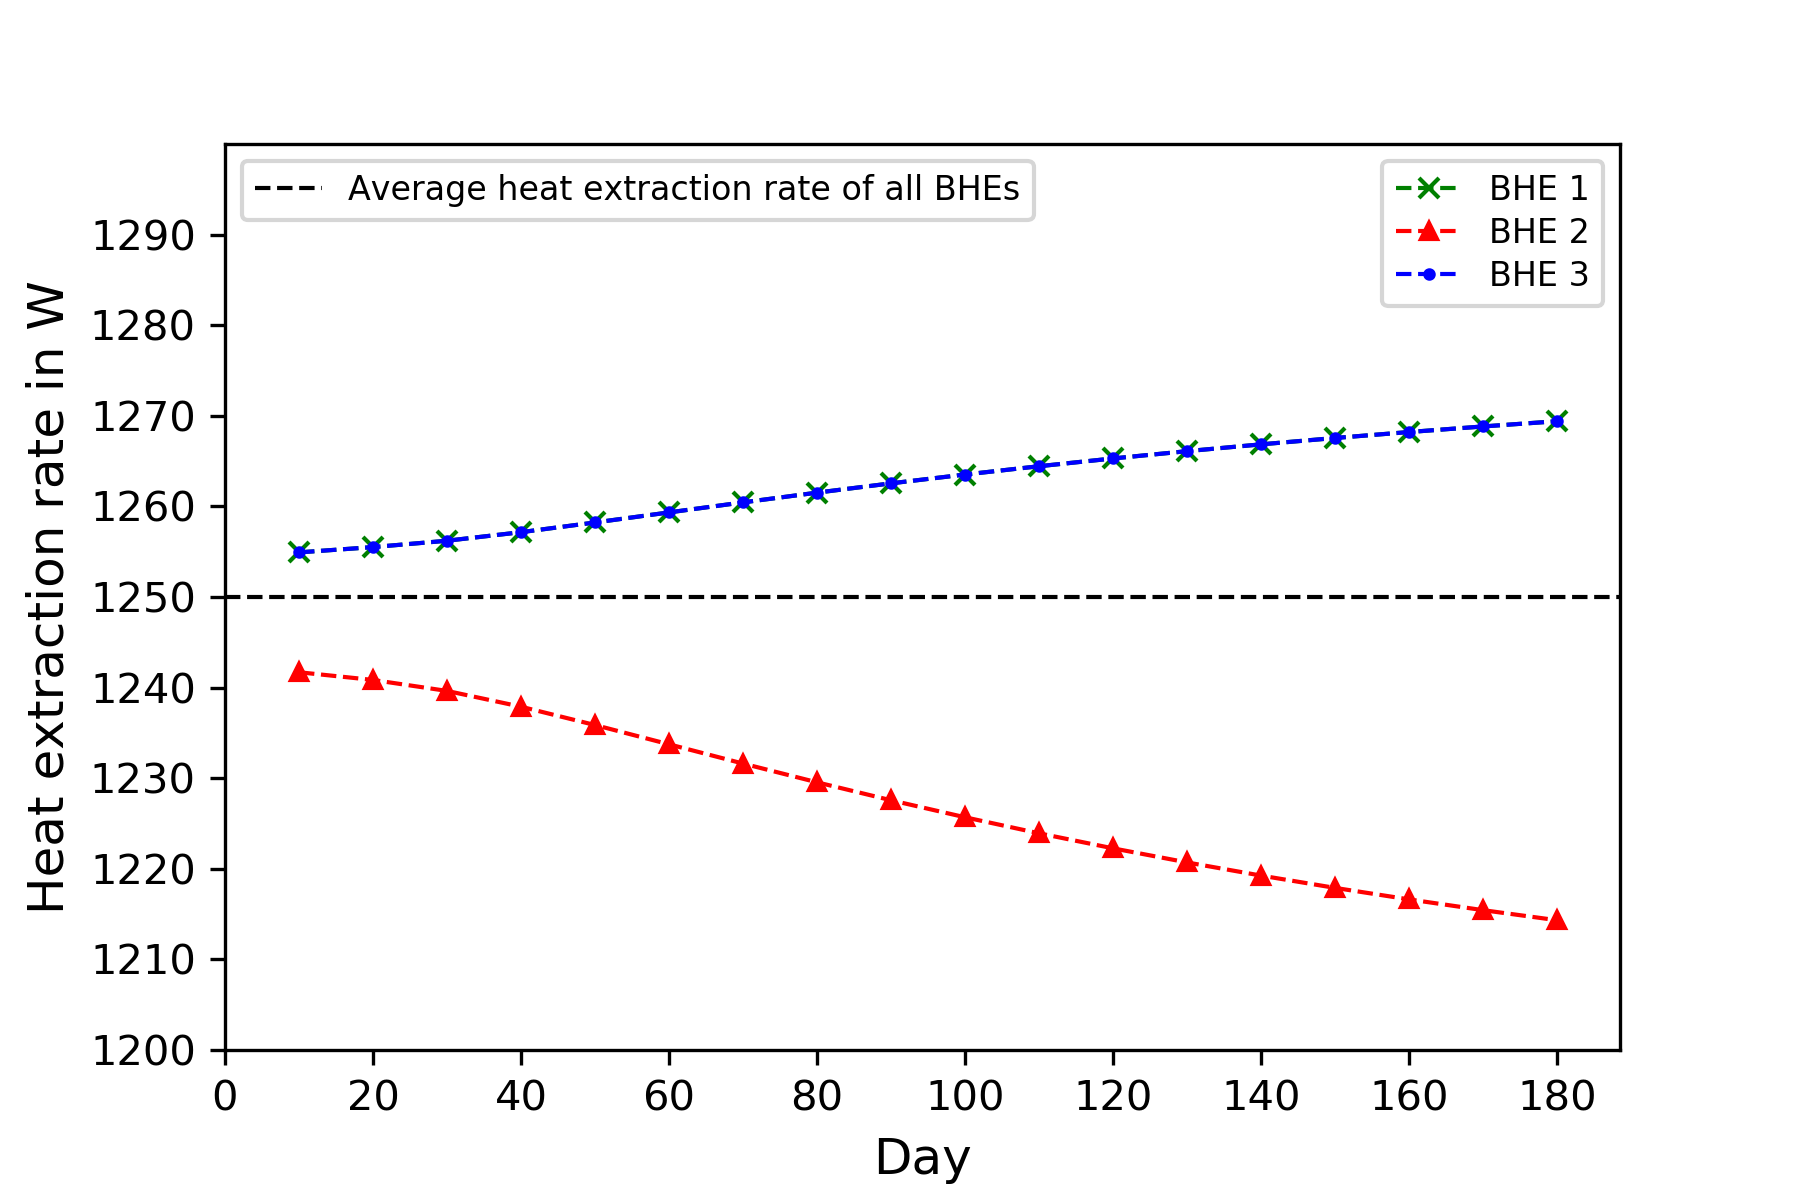
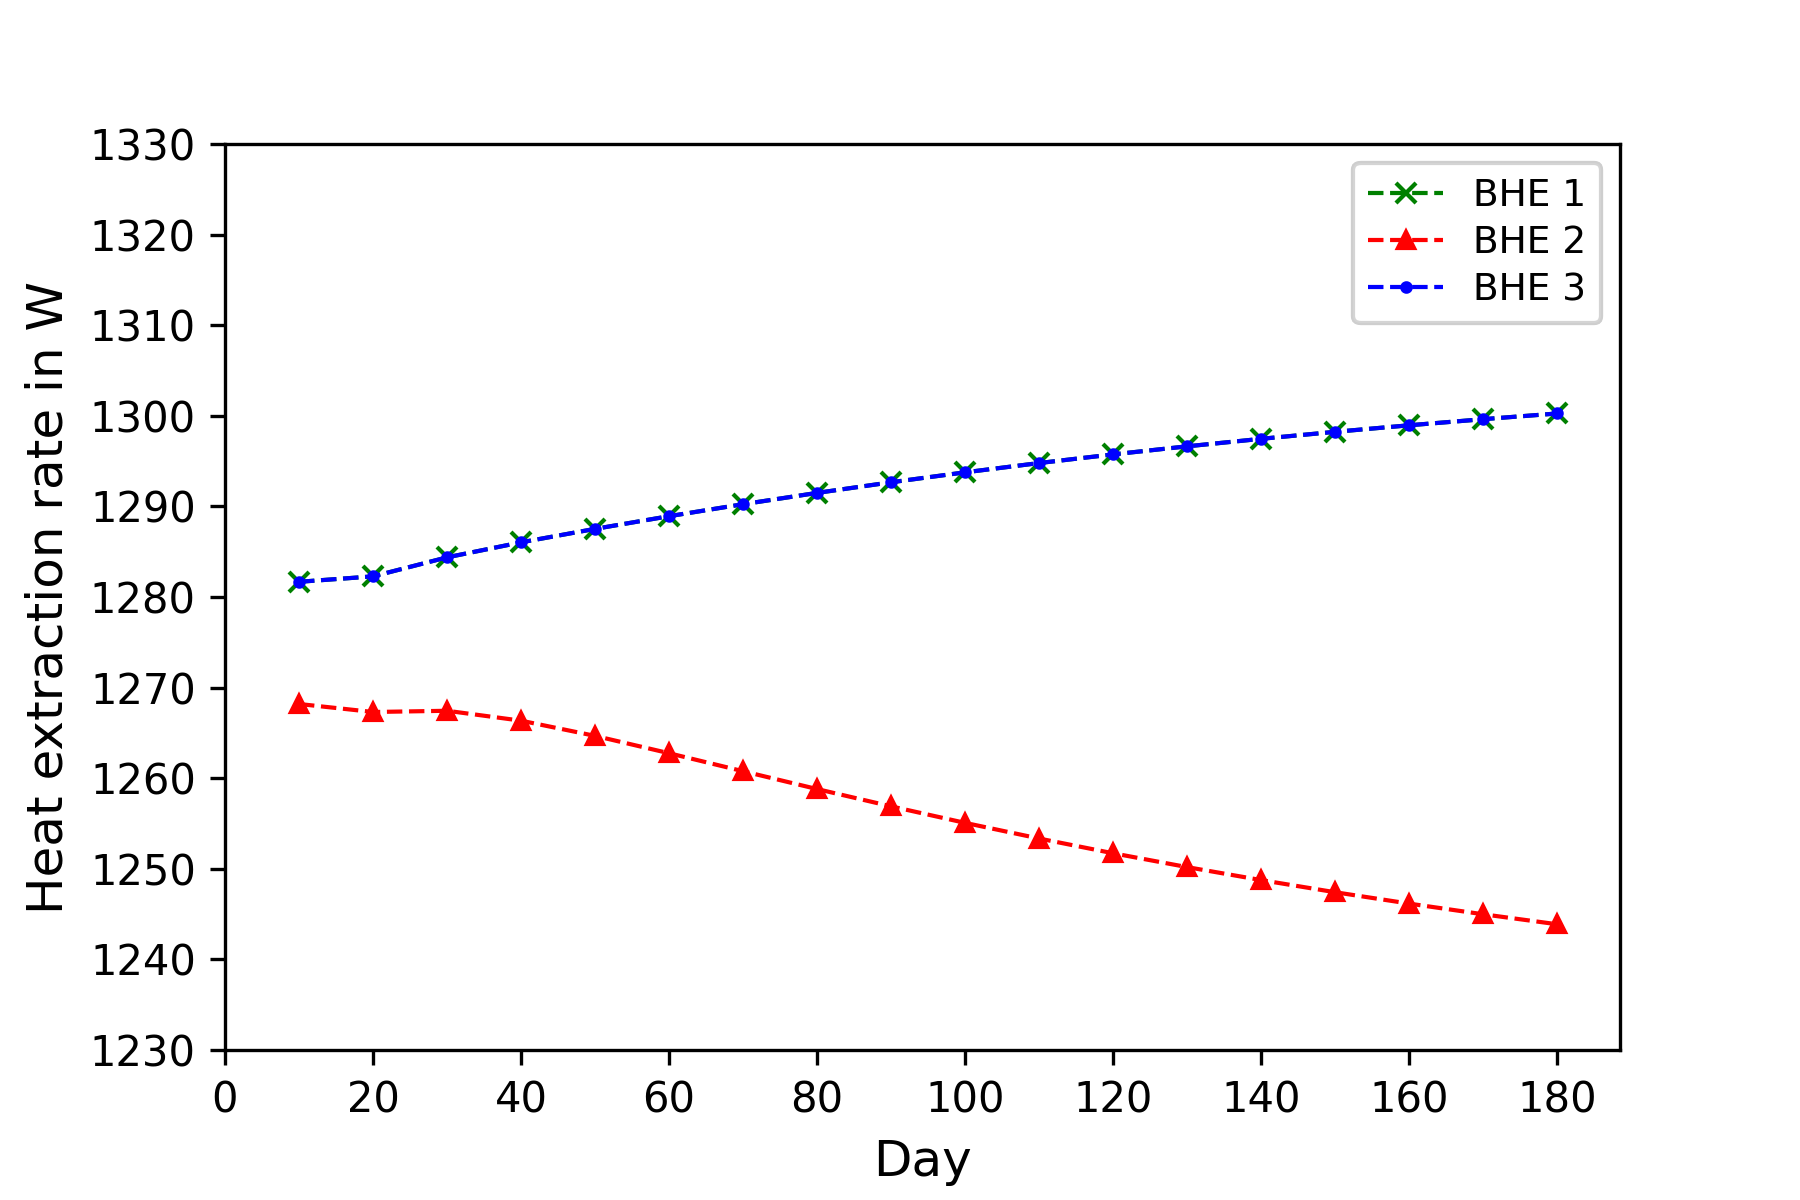
[BHE/docu] update 3 BHE array benchmark documentation
[BHE/docu] lauguege rephrase according to the comment

diff --git a/web/content/docs/benchmarks/heat-transport-bhe/3D_3BHEs_array.md b/web/content/docs/benchmarks/heat-transport-bhe/3D_3BHEs_array.md
@@ -35,6 +35,10 @@ For the subsurface domain, a 50 $\times$ 50 $\times$ 72 $m$ mesh was constructed
 The BHE \#1 and BHE \#3 are located at the left and right side, while the BHE \#2 is installed in the centre.
 The initial soil temperature of the domain is set with 12 $^\circ$C.
 The top surface is assumed as Dirichlet boundary condition with a fixed temperature of 12 $^\circ$C over the entire simulation.
+To be noticed is that in this benchmark project file, the initial soil temperature and all boundary conditions are set to be 42 $^\circ$C, which is 30 $^\circ$C higher than they are described in the documentation.
+The reason for this is to prevent the circulation fluid (water) from freezing when calculating the TESPy pipe network model.
+The freezing of circulation fluid will actually lead to unexpected results in the TESPy solver (causing an enthalpy calculation error by the CoolProp library).
+Therefore all simulated temperature values are subtracted by 30 $^\circ$C before they are plotted and illustrated in the figures here.
 The detailed input parameters can be found in the 3bhes\_1U.prj file, they are also listed in the following table.
 
 | Parameter                              | Symbol             |  Value              | Unit                        |
@@ -52,7 +56,6 @@ The detailed input parameters can be found in the 3bhes\_1U.prj file, they are a
 | Circulating fluid density              | $\rho_{f}$         | $992.92$            | $\mathrm{Kg m^{-3}}$        |
 | Circulating fluid thermal conductivity | $\lambda_{f}$      | $0.62863$           | $\mathrm{W m^{-1} K^{-1}}$  |
 | Circulating fluid heat capacity        | $(\rho c)_{f}$     | $4.16\times10^{6}$  | $\mathrm{J m^{-3}K^{-1}}$   |
-| Circulating fluid flow rate            | $\mathbf{u}$       | $0.0002$            | $\mathrm{m^{3} s^{-1}}$     |
 | Length of the BHE U-pipe in network    | $l$                | $100$               | $\mathrm{m}$                |
 | Roughness coefficient of the pipe      | $k_s$              | $0.00001$           | $\mathrm{m}$                |
 
@@ -62,18 +65,20 @@ Here, the TESPy software developed by Francesco Witte is employed to simulate th
 Interested readers may refer to the online documentation of TESPy for the detailed introduction of the software.
 The TESPy version 0.3.2 is used in this benchmark.
 
-Two different pipe network setup were constructed for this benchmakr.
+Two different pipe network setup were constructed for this benchmark.
 
 *   A one-way pipe network (see Figure 1a)
 
-In this setup, the refrigerant flow rate in the network is pre-defined by the user.
+In this setup, the refrigerant mass flow rate is given in $kg/s$, as this is the default setting in the TESPy model (see ./pre/3bhes.py).
 After being lifted by the pump, the refrigerant inflow will be divided into 3 branches by the splitter and then flow into each BHEs.
 Because of this configuration, the inflow temperature on each BHE will be the same.
 The refrigerant flowing out of the BHEs array will be firstly mixed at the merging point and then extracted for the heat extraction through the heat pump.
 After that, the refrigerant will flow out from the network.
-For the boundary condition, a constant thermal load of 3750 $W$ is imposed on the heat pump for the entire simulation period. which means an average specific heat extraction rate on each BHE with 25 $W/m$.
-The fluid enthalpy value at the splitter point is set to be equal to the sink point enthalpy, that means all the consumed heat on the heat pump is supplied by the BHEs array.
-The total simulation time is 6 months.
+For the boundary condition, a constant thermal load of 3750 $W$ is imposed on the heat pump over the entire simulation period.
+In this case, the fluid enthalpy value at the splitter point is set to be equal to the sink point enthalpy, that means all the consumed heat on the heat pump is supplied by the BHEs array.
+During the calculation of the TESPy solver, the flow density and the related specific heat capacity in the pipe network are automatically adjusted by calling the CoolProp library.
+To check their concrete value under specific temperature and pressure conditions, interested readers may refer to e.g. the 'PropsSI' function introduced in the webpage of CoolProp.
+For the fast execution of this benchmark, the total simulation time is shorten to 600 seconds. If the reader wishes to reproduce the same results, a full simulation of 6 months needs to be performed.
 
 {{< img src="../3D_3BHEs_array_figures/BHE_network.png" width="200">}}
 
@@ -95,9 +100,11 @@ Figure 1b: Closed-loop pipeline network model
 The evolution of the soil temperature at 1 m distance away from the 3 BHEs are shown in Figure 2.
 Compared with the BHE \#1 and BHE \#3, the soil temperature near the BHE located at the centre (BHE \#2) shows a deeper draw-down.
 It indicates that a thermal imbalance is occurring in the center of the BHE array.
-This imbalance leads to a lower outflow temperature from the BHE \#2, which is shown in Figure 3. Figure 4 depicts the evolution of the heat extraction rate of each BHE over the time.
+This imbalance leads to a lower outflow temperature from the BHE \#2, which is shown in Figure 3.
+Figure 4 depicts the evolution of the heat extraction rate of each BHE over the time.
 Compared to the decrease of the heat extraction rate on the centre BHE \#2, the rates on the other two BHEs located at the out sides was gradually increasing.
 It indicates that the heat extraction rate is shifting from the centre BHE towards the outer BHEs over the heating season.
+In this figure, the difference between the total heat extraction rate of all BHEs and the preset 3750 $W$ imposed on the heat pump is due to the hydraulic loss within each pipe in the pipe network.
 
 In comparison to the one-way setup, the closed-loop network shows a slightly different behaviour.
 The evolution of inflow refrigerant temperature and flow rate entering the BHE array is shown in Figure 5.
@@ -132,3 +139,5 @@ Figure 6: Evolution of the heat extraction rate of each BHE with close loop netw
 [1] Diersch, H. J., Bauer, D., Heidemann, W., Rühaak, W., & Schätzl, P. (2011). Finite element modeling of borehole heat exchanger systems: Part 1. Fundamentals. Computers & Geosciences, 37(8), 1122-1135.
 
 [2] Francesco Witte, Ilja Tuschy, TESPy: Thermal Engineering Systems in Python, 2019. URL: <https://doi.org/10.21105/joss.02178>. doi:10.21105/joss.02178.
+
+[3] Webpage of the High-Level Interface in CoolProp. URL: <http://www.coolprop.org/coolprop/HighLevelAPI.html>.
